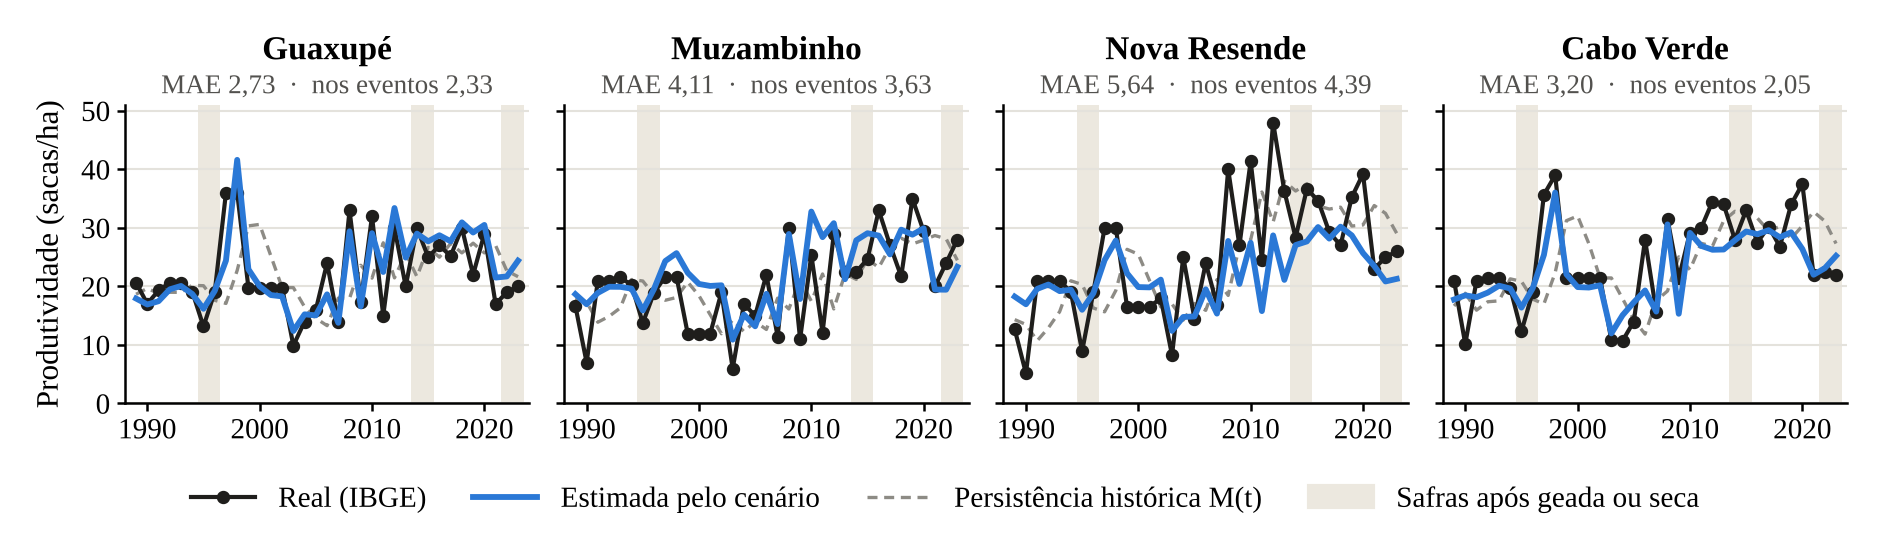
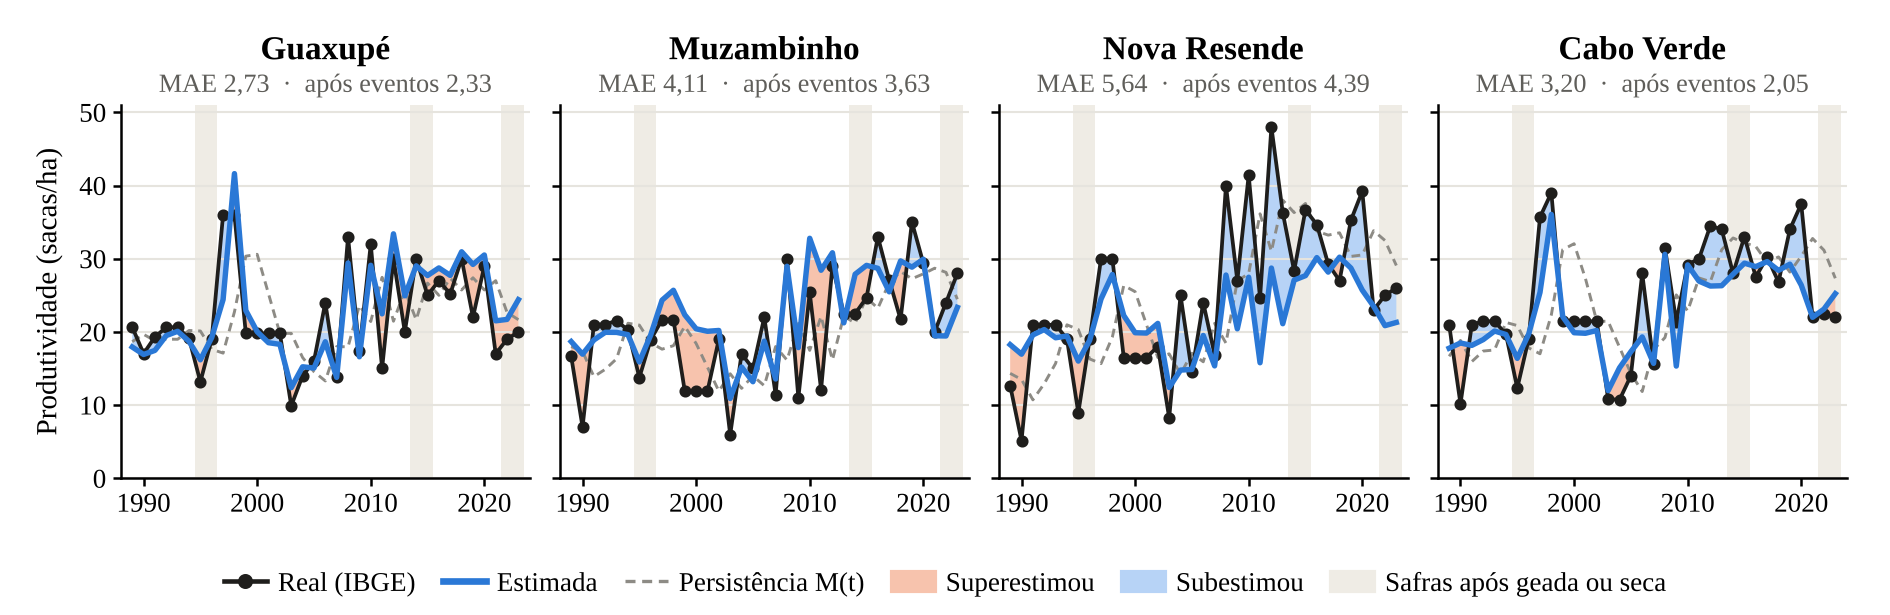
Gráficos real x estimada com a faixa de erro; versão 2x2 para os slides; título
- 5g: faixa entre a produtividade real e a estimada (laranja: superestimativa;
  azul: subestimativa), barras do real ao estimado nos previsores, e uma
  versão 2x2 com os eventos rotulados em resultados/figuras/apresentacao/
- README: título do TCC v21

Claude-Session: https://claude.ai/code/session_01Y9bw1suotKNxbKkZ3hyj9N

Changed region(s): [[0.0, 0.0599, 0.9989, 0.839], [0.0937, 0.8989, 0.9053, 0.9888]]

diff --git a/README.md b/README.md
@@ -1,4 +1,4 @@
-# Clima e NDVI na estimativa da produtividade do café arábica com Random Forest
+# Contribuição do clima e do NDVI para estimar e antecipar a produtividade do café arábica com Random Forest
 
 Trabalho de Conclusão de Curso em **Engenharia Agronômica**, Instituto Federal do Sul de Minas Gerais (IFSULDEMINAS), Campus Muzambinho.
 
@@ -238,7 +238,7 @@ O modelo **nunca** usa o rendimento da safra que estima. A média móvel é calc
 * **5d.** Figuras de apoio: fluxograma, área de estudo e séries.
 * **5e.** Números citados no texto que não estão nas outras saídas (resumo do clima e hiperparâmetros do modelo final).
 * **5f.** Os seis cenários: MAE, RMSE e R² dos cenários 1 a 4; Wilcoxon de cada cenário contra a persistência e dos cenários 2, 3 e 4 contra o Cenário 1, com ajuste de Holm sobre as 6 comparações (3 cenários × observação e safra); produtividade real × estimada nas safras de evento; R² dos previsores.
-* **5g.** Uma figura por cenário com a produtividade real (IBGE) e a estimada ao longo da série em Guaxupé, Muzambinho, Nova Resende e Cabo Verde, com a persistência histórica, as safras após geada ou seca sombreadas e o MAE do cenário em cada município.
+* **5g.** Uma figura por cenário com a produtividade real (IBGE) e a estimada ao longo da série em Guaxupé, Muzambinho, Nova Resende e Cabo Verde, com a persistência histórica, as safras após geada ou seca sombreadas e o MAE do cenário em cada município. A faixa entre a real e a estimada é o erro (laranja: superestimativa; azul: subestimativa). Duas versões: 1 × 4 painéis para o texto e 2 × 2, com os eventos rotulados, para os slides (`resultados/figuras/apresentacao/`).
 
 A análise SHAP, que atribuía o dano de cada evento ao clima e ao NDVI, saiu do texto do TCC e ficou como experimento (`experimentos/e5_dano_shap_por_evento.py`).
 
